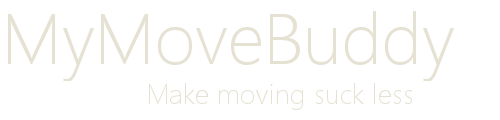
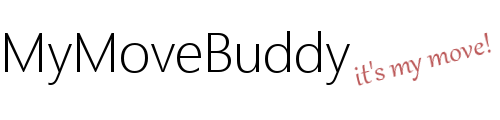
Header tests
testing new image designs

diff --git a/css/light-green.css b/css/light-green.css
@@ -1325,10 +1325,10 @@ pre.allowed-tags {
 }
 
 #logo a {
-	background: transparent url(../images/light-green/logo.png) no-repeat 0 0;
+	background: transparent url(../images/MyMoveBuddyHeader.png) no-repeat 0 0;
 	display: block;
-	height: 77px; /* Set this to your logo image height */
-	width: 247px; /* Set this to your logo image width */
+	height: 120px; /* Set this to your logo image height */
+	width: 500px; /* Set this to your logo image width */
 	overflow: hidden;
 	text-indent: -9999em;
 }

diff --git a/css/light-blue.css b/css/light-blue.css
@@ -1321,10 +1321,10 @@ pre.allowed-tags {
 }
 
 #logo a {
-	background: transparent url(../images/light-blue/logo.png) no-repeat 0 0;
+	background: transparent url(../images/MyMoveBuddyHeader.png) no-repeat 0 0;
 	display: block;
-	height: 77px; /* Set this to your logo image height */
-	width: 247px; /* Set this to your logo image width */
+	height: 120px; /* Set this to your logo image height */
+	width: 500px; /* Set this to your logo image width */
 	overflow: hidden;
 	text-indent: -9999em;
 }

diff --git a/css/dark-blue.css b/css/dark-blue.css
@@ -1299,7 +1299,7 @@ pre.allowed-tags {
 }
 
 #logo a {
-	background: transparent url(../images/MyMoveBuddyHeader.png) no-repeat 0 0;
+	background: transparent url(../images/MyMoveBuddyHeader02.png) no-repeat 0 0;
 	display: block;
 	height: 120px; /* Set this to your logo image height */
 	width: 500px; /* Set this to your logo image width */
